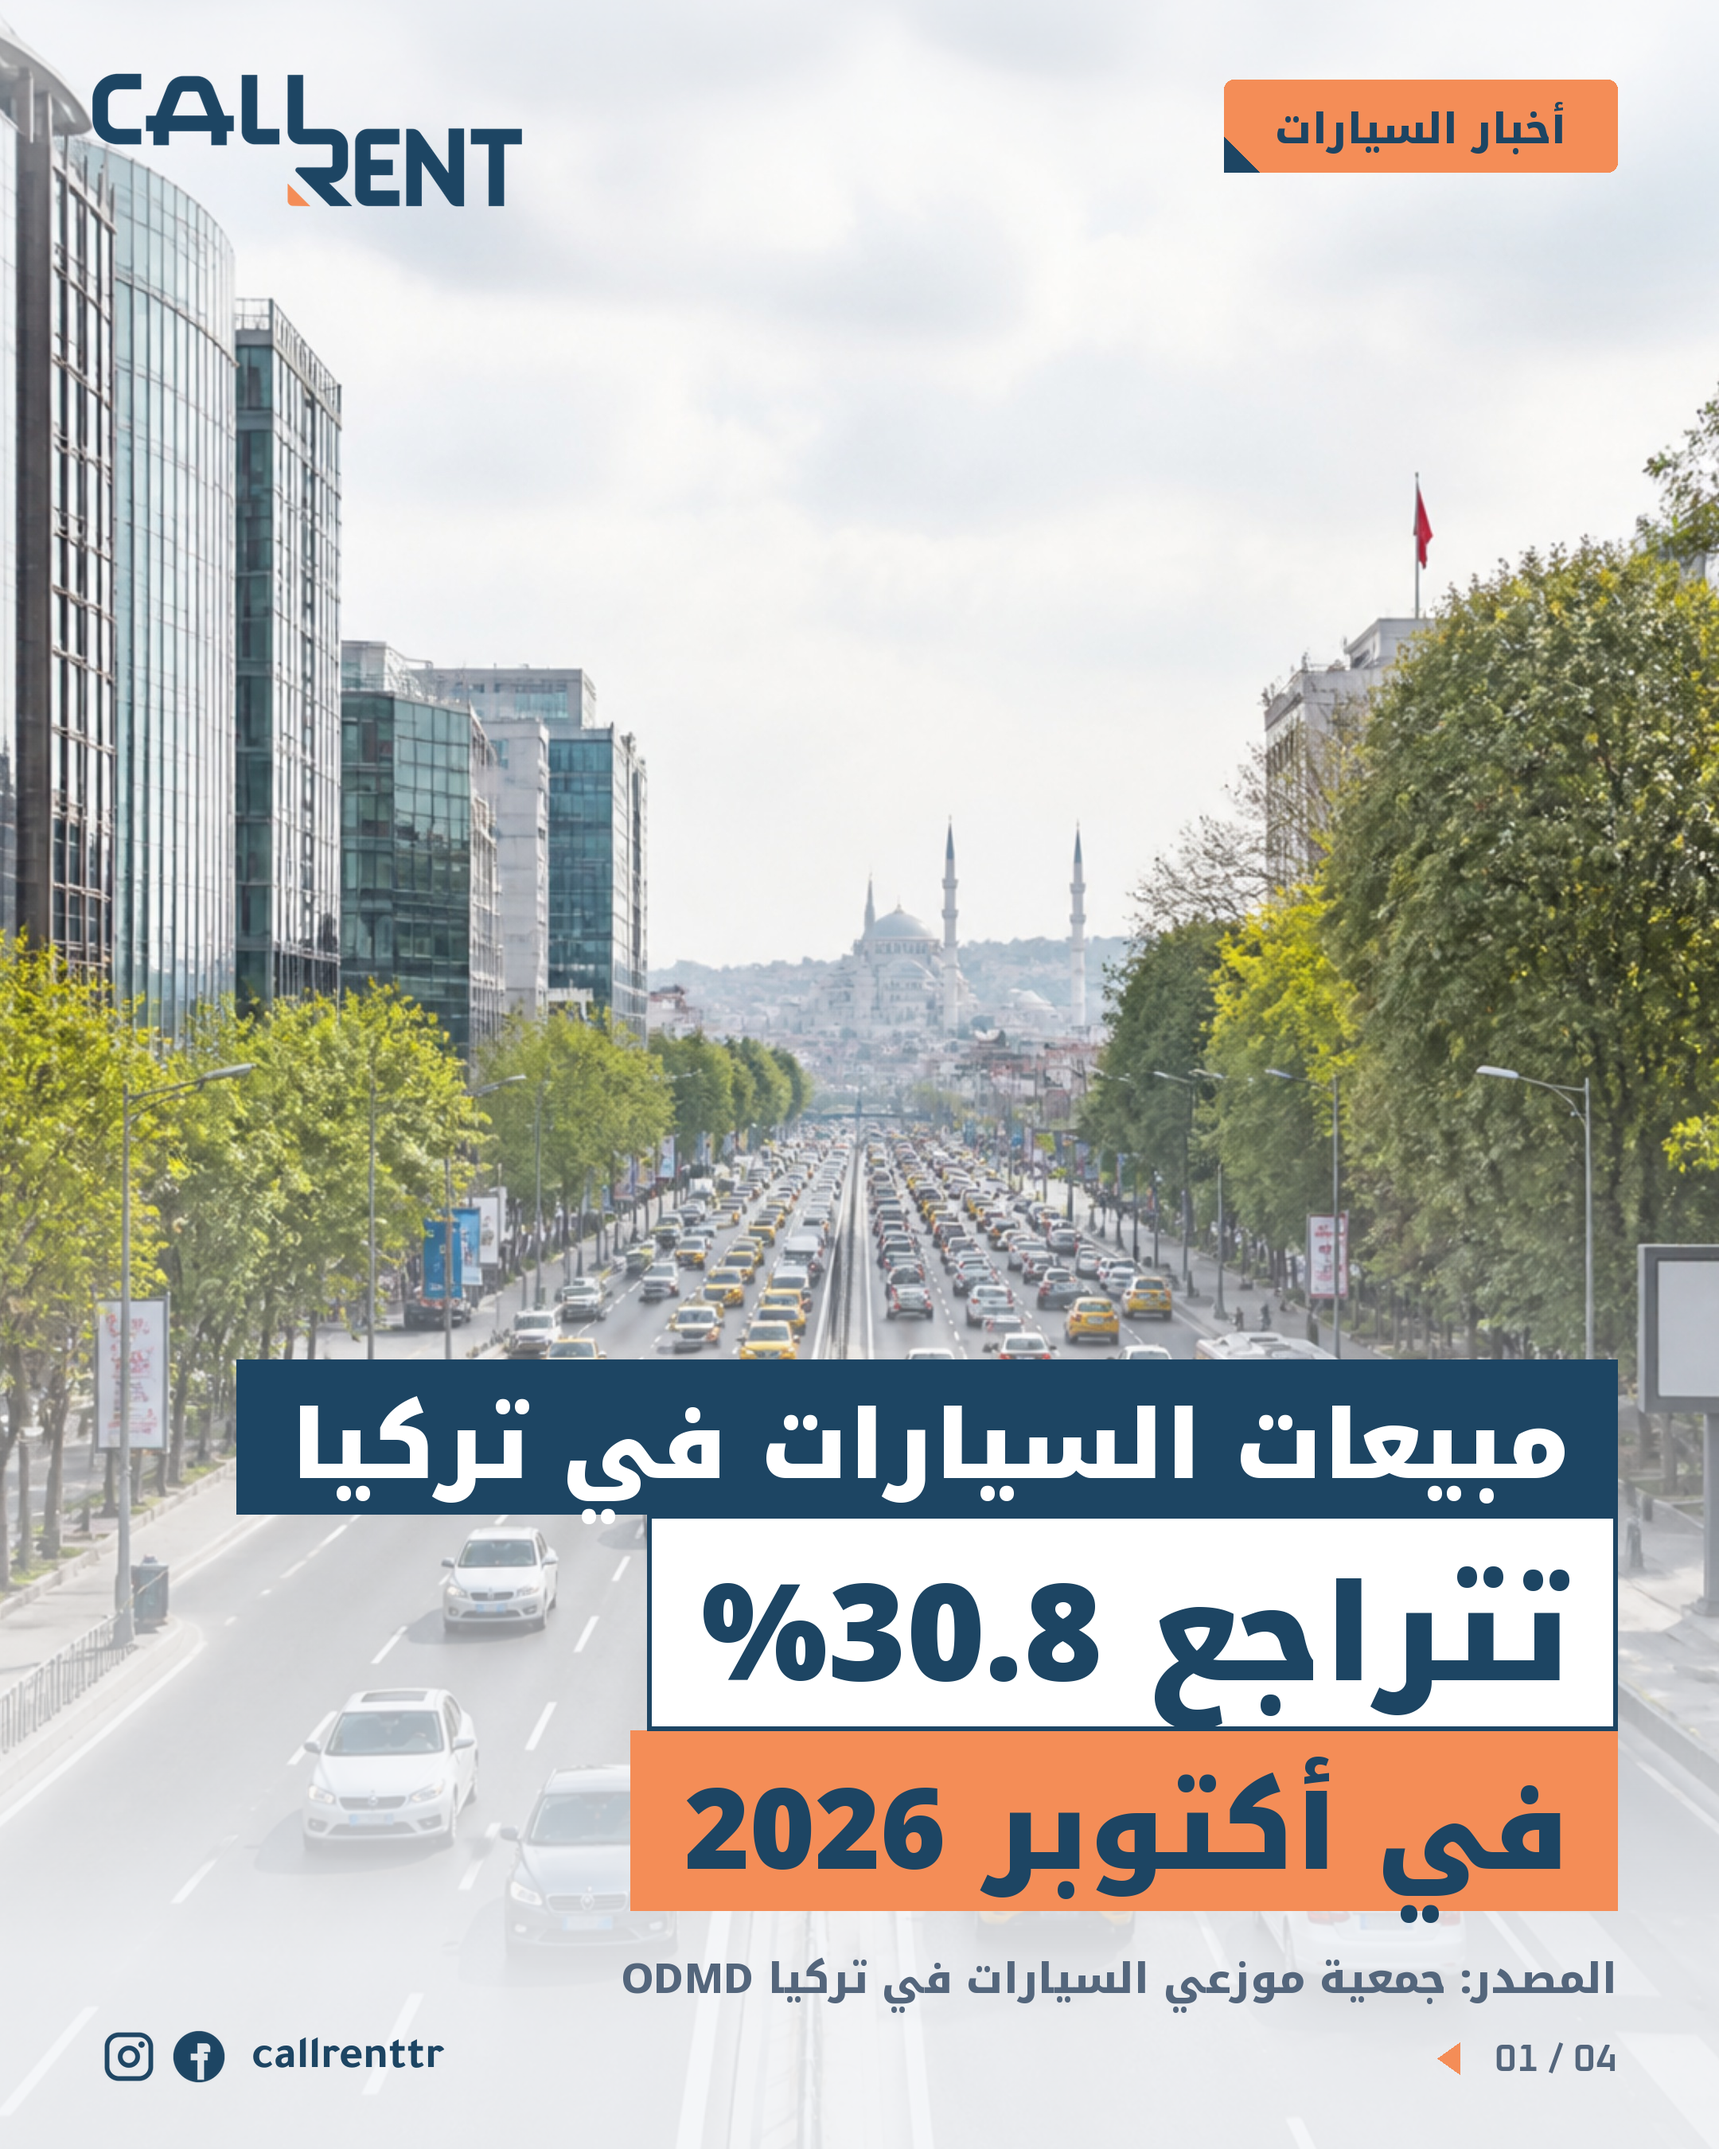
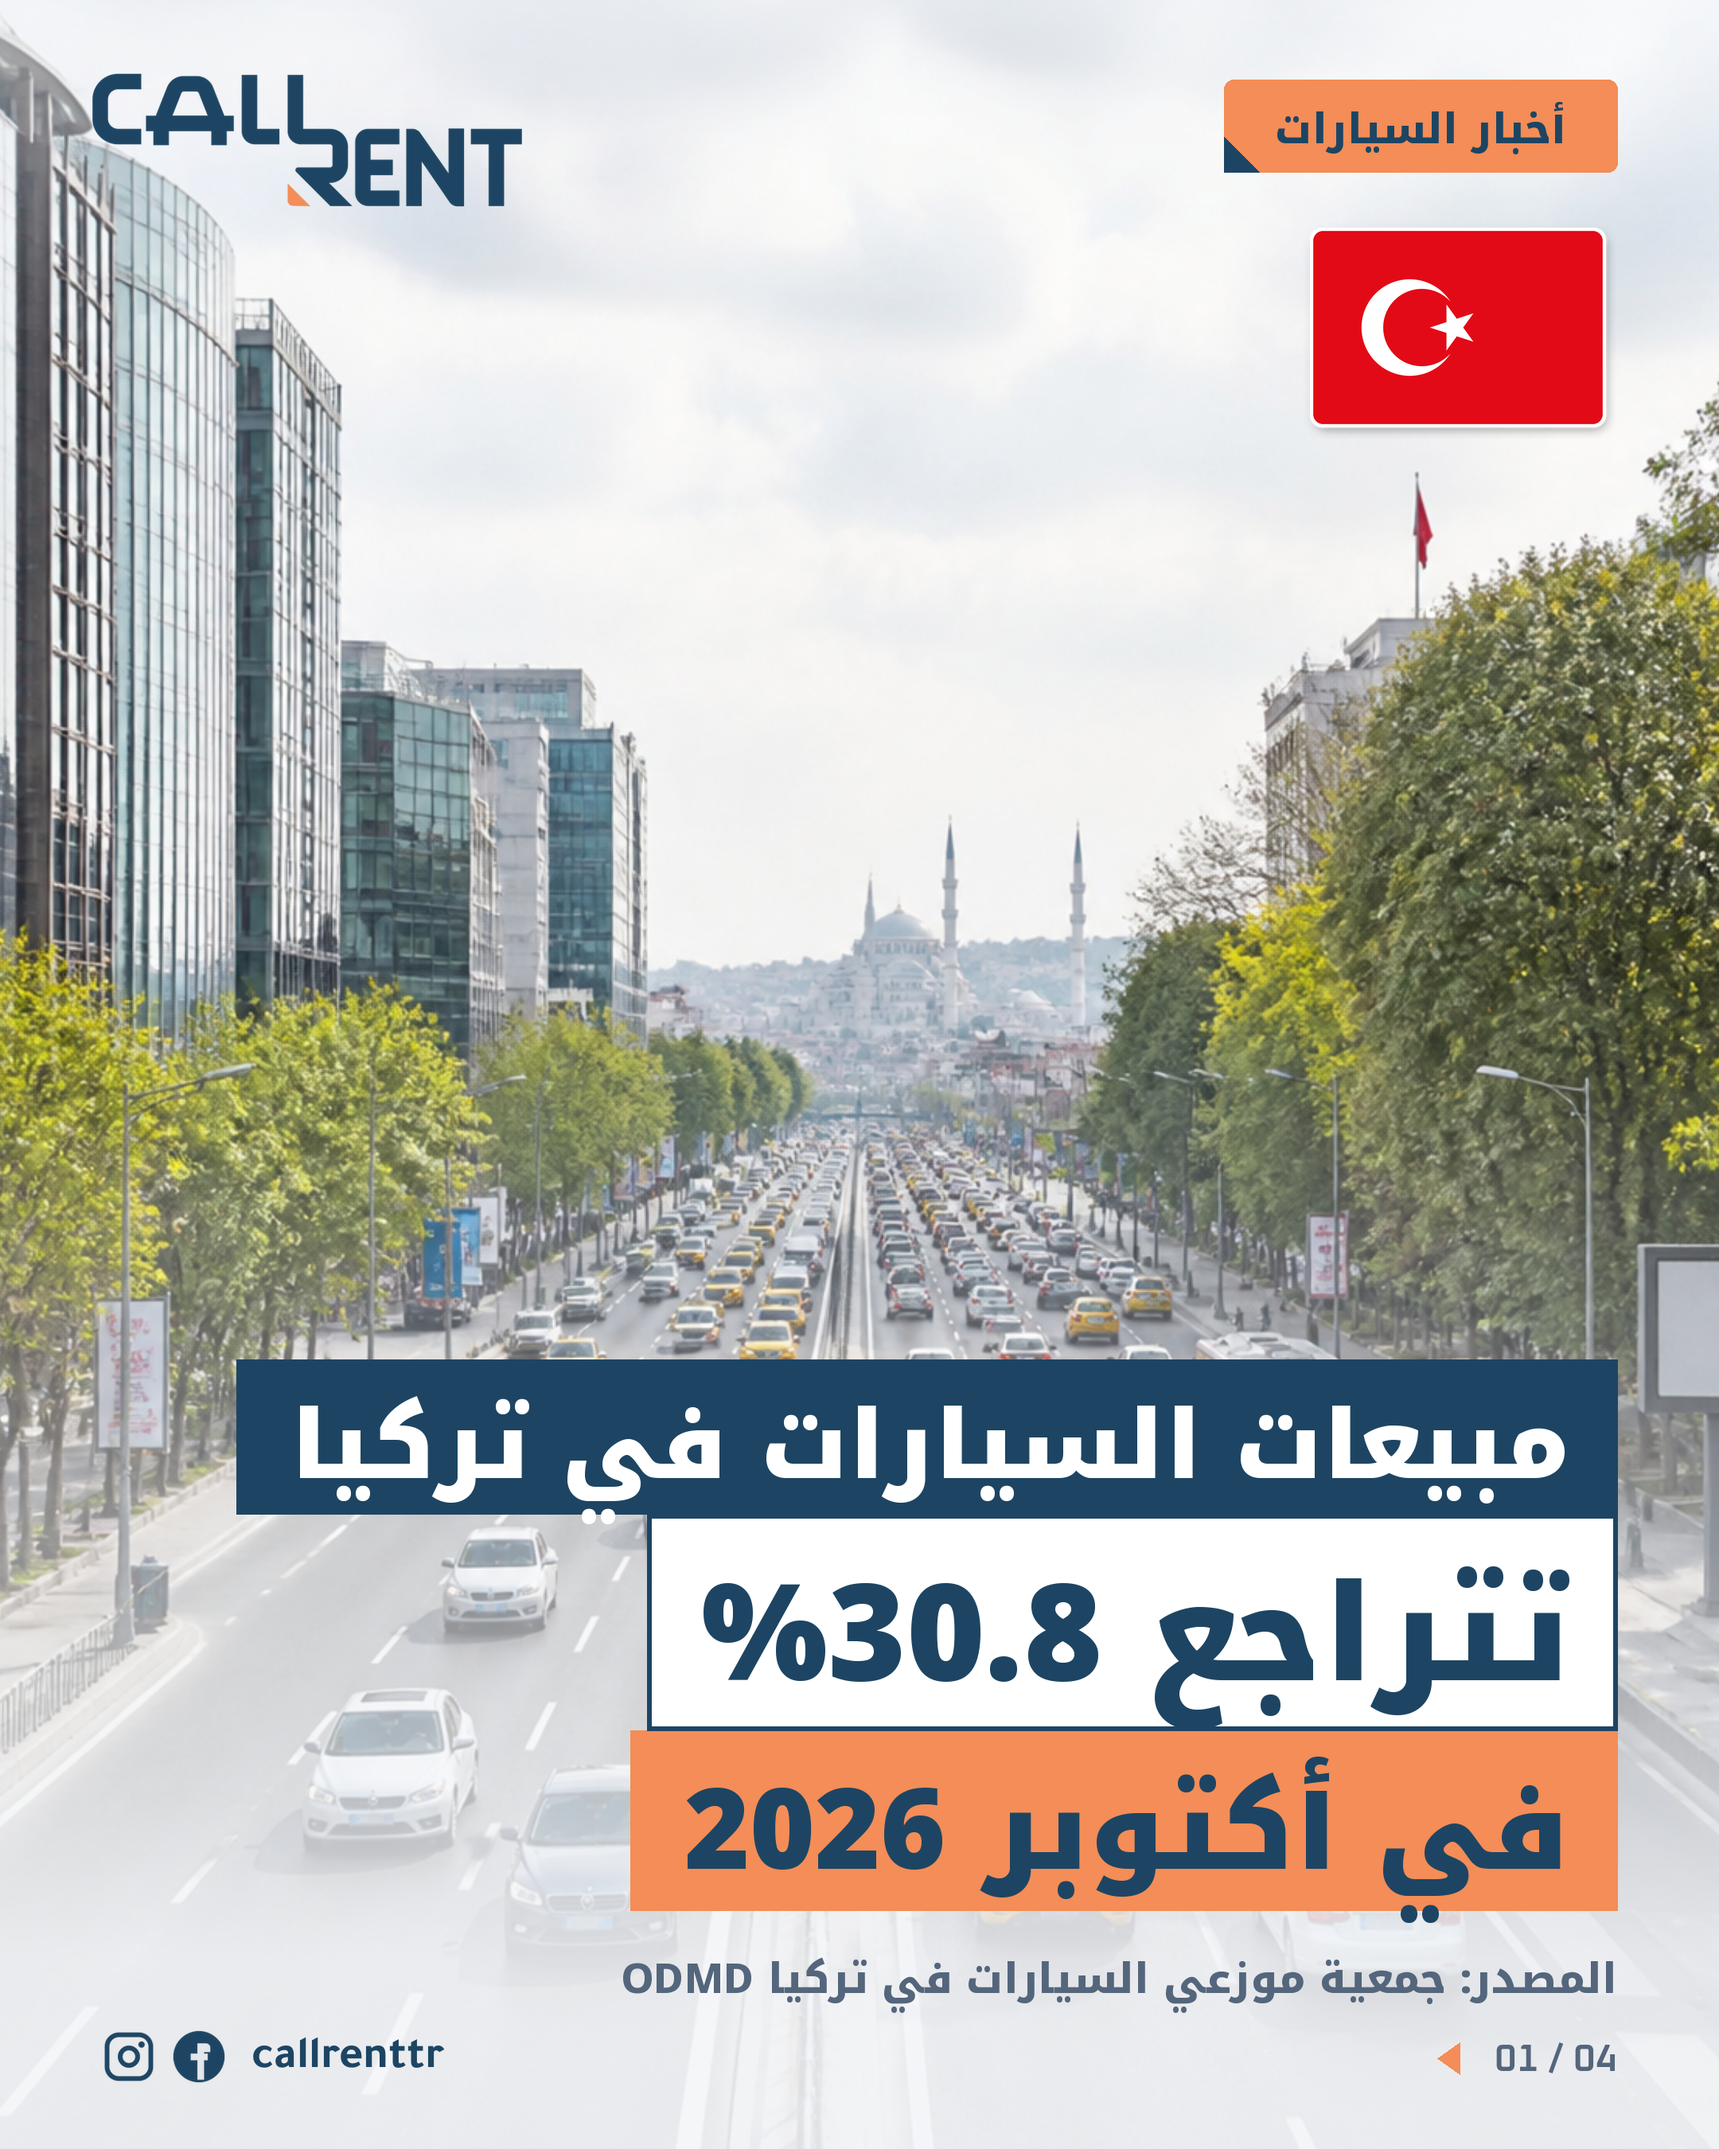
Turkey sales news: Turkish flag on the cover, price question lowered; rule: top text sits low
Claude-Session: https://claude.ai/code/session_01JWxxZZBXcuDznNNTjM86b7

Changed region(s): [[0.7444, 0.0933, 0.9616, 0.2178]]

diff --git a/marketing/news/stories/turkey_sales_oct.py b/marketing/news/stories/turkey_sales_oct.py
@@ -5,7 +5,7 @@ NAME = "turkey-sales-oct"
 THEME = "light"
 SOURCE = "المصدر: جمعية موزعي السيارات في تركيا ODMD"
 SLIDES = [
-    dict(kind='cover', bg='tr-sales-1-cover.jpg', stack=[
+    dict(kind='cover', bg='tr-sales-1-cover.jpg', mark='flag-turkey.png', mark_w=200, stack=[
         ('مبيعات السيارات في تركيا', LOGONAVY, Wh, 60),
         ('تتراجع 30.8%', Wh, LOGONAVY, 84),
         ('في أكتوبر 2026', O, LOGONAVY, 70)]),
@@ -19,8 +19,8 @@ SLIDES = [
          body=[('انخفضت مبيعات السيارات الخاصة بنسبة', Wh), ('28.4%', O), ('إلى', Wh), ('64,939 سيارة،', O),
                ('بينما تراجعت المركبات التجارية الخفيفة بنسبة', Wh), ('39.5%', O), ('إلى', Wh), ('15,395 مركبة.', O),
                ('\n', Wh), ('ومنذ بداية العام، تراجع السوق بنسبة', Wh), ('15.3%.', O)]),
-    dict(kind='ask', bg='tr-sales-4-ask.jpg', chip='شاركنا رأيك', top=270, lines=[
-        ('مع تراجع شراء السيارات..', LOGONAVY, 60),
-        ('هل أصبح الاستئجار', LOGONAVY, 72),
-        ('الخيار الأذكى؟', O, 96)]),
+    dict(kind='ask', bg='tr-sales-4-ask.jpg', chip='شاركنا رأيك', top=380, lines=[
+        ('برأيك.. هل غلاء الأسعار', LOGONAVY, 66),
+        ('هو ما أبعد الناس', LOGONAVY, 66),
+        ('عن شراء السيارات؟', O, 84)]),
 ]

diff --git a/CLAUDE.md b/CLAUDE.md
@@ -7,3 +7,4 @@
 - Before sending, check every slide at full size for touching or overlapping text, lines cutting through letters, and labels sitting on drawings.
 - All Arabic copy (on the design and in captions, headlines included) is clear Modern Standard "white" Arabic that every Arab reader understands: no colloquial or dialect words or phrasing.
 - The brand kit lives in `marketing/brand-kit` (pass it as the first argument to every render script). Fonts: Noto Kufi Arabic from the full Google Fonts build (the Noto Arabic-only build lacks Latin punctuation).
+- Top text blocks sit LOW (recurring feedback "النص مرتفع"): leave clear air under the logo/badge row. On cover and question slides start the first text line around y=320-380 (1080 units), never right under the header, and avoid big empty space at the bottom.
